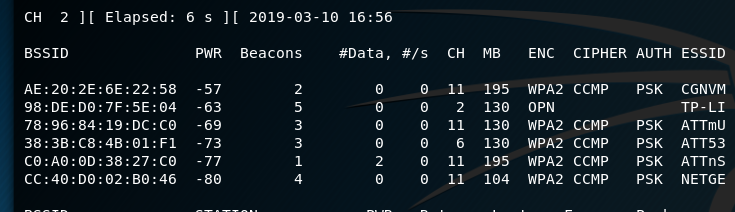
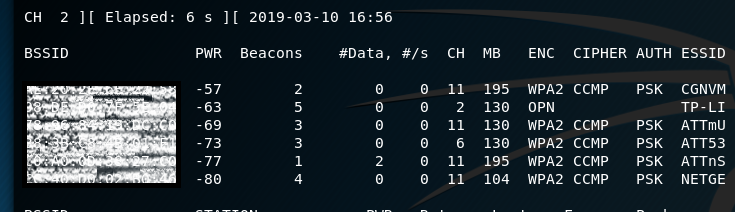
minor

Changed region(s): [[0.0299, 0.3962, 0.2395, 0.8774]]

diff --git a/_posts/2019-03-10-Capturing-and-cracking-4-way-handshake.md b/_posts/2019-03-10-Capturing-and-cracking-4-way-handshake.md
@@ -20,9 +20,9 @@ check with airmon-ng to see if we have successfully put it into monitor mode. Yo
 ![airmon](../pictures/airmon/aircheck.png)
 Perfect! We can see that it is in the correct mode. Now we can use airdump to find other AP's in the area. To start this process type **airdump-ng wlan0mon** you should be greeted with a heap of information. It might take a second.
 ![airmon](../pictures/airmon/airdump.png)
-From here we will pick out our own BSSID and make note of that and the channel it is on. In this case it is **AE:20:2E:6E:22:58 channel 11** Great! Now we can start a capture with everything related to that channel to try and capture the handshake. To do this we use the command **airodump-ng -c 11 --bssid AE:20:2E:6E:22:58 -w capture wlan0mon**. The -c stands for channel the --bssid is self explanatory the -w is going to output a file called capture and the last parameter is the interface to use.
+From here we will pick out our own BSSID and make note of that and the channel it is on. In this case it is **testbssid channel 11** Great! Now we can start a capture with everything related to that channel to try and capture the handshake. To do this we use the command **airodump-ng -c 11 --bssid "bssid" -w capture wlan0mon**. The -c stands for channel the --bssid is self explanatory the -w is going to output a file called capture and the last parameter is the interface to use.
 ![airmon](../pictures/airmon/airo.png)
-We are going to let that capture while we force the handshake. You could wait it might just take a while. To force it we use **aireplay-ng -0 2 -a AE:20:2E:6E:22:58 wlan0mon** . The -0 specifies we are going to use deauthentication packets and 2 is the amount. -a is the bssid and the last parameter is the interface. What this is going to do is kick everyone off the network and force a handshake to happen when they reconnect. It happens almost instantly.
+We are going to let that capture while we force the handshake. You could wait it might just take a while. To force it we use **aireplay-ng -0 2 -a "bssid" wlan0mon** . The -0 specifies we are going to use deauthentication packets and 2 is the amount. -a is the bssid and the last parameter is the interface. What this is going to do is kick everyone off the network and force a handshake to happen when they reconnect. It happens almost instantly.
 ![airmon](../pictures/airmon/aireplay.png)
 We can confirm we got the handshake back on our capture up at the top it should say WPA handshake:
 
